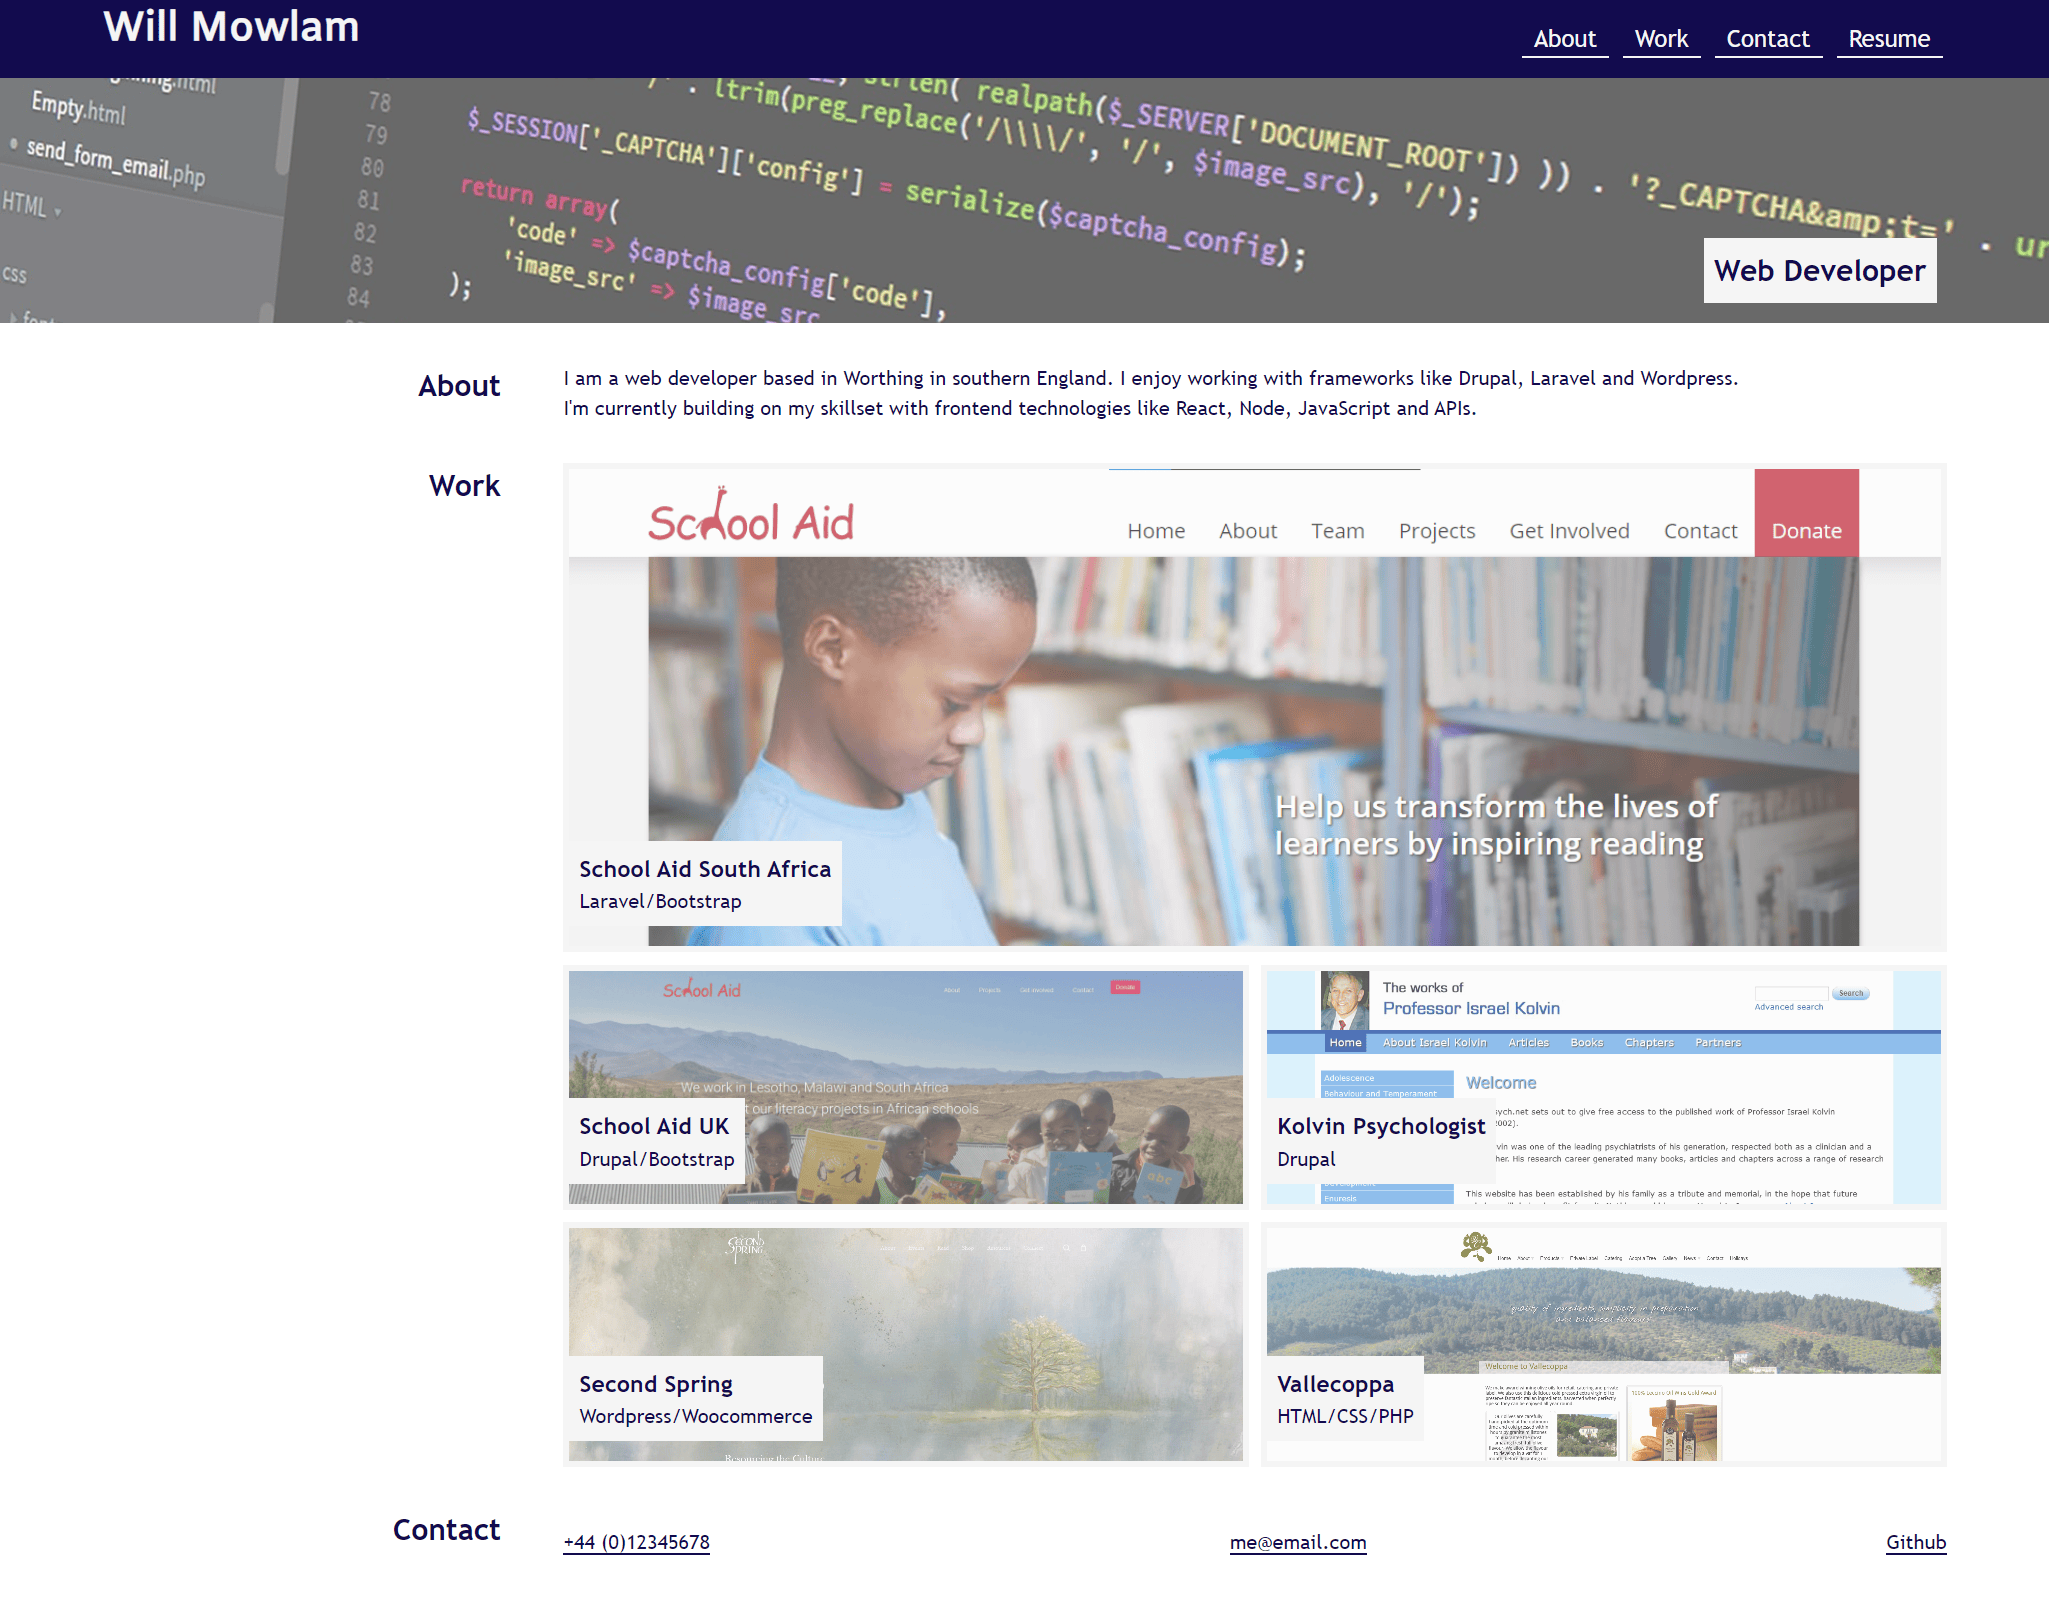
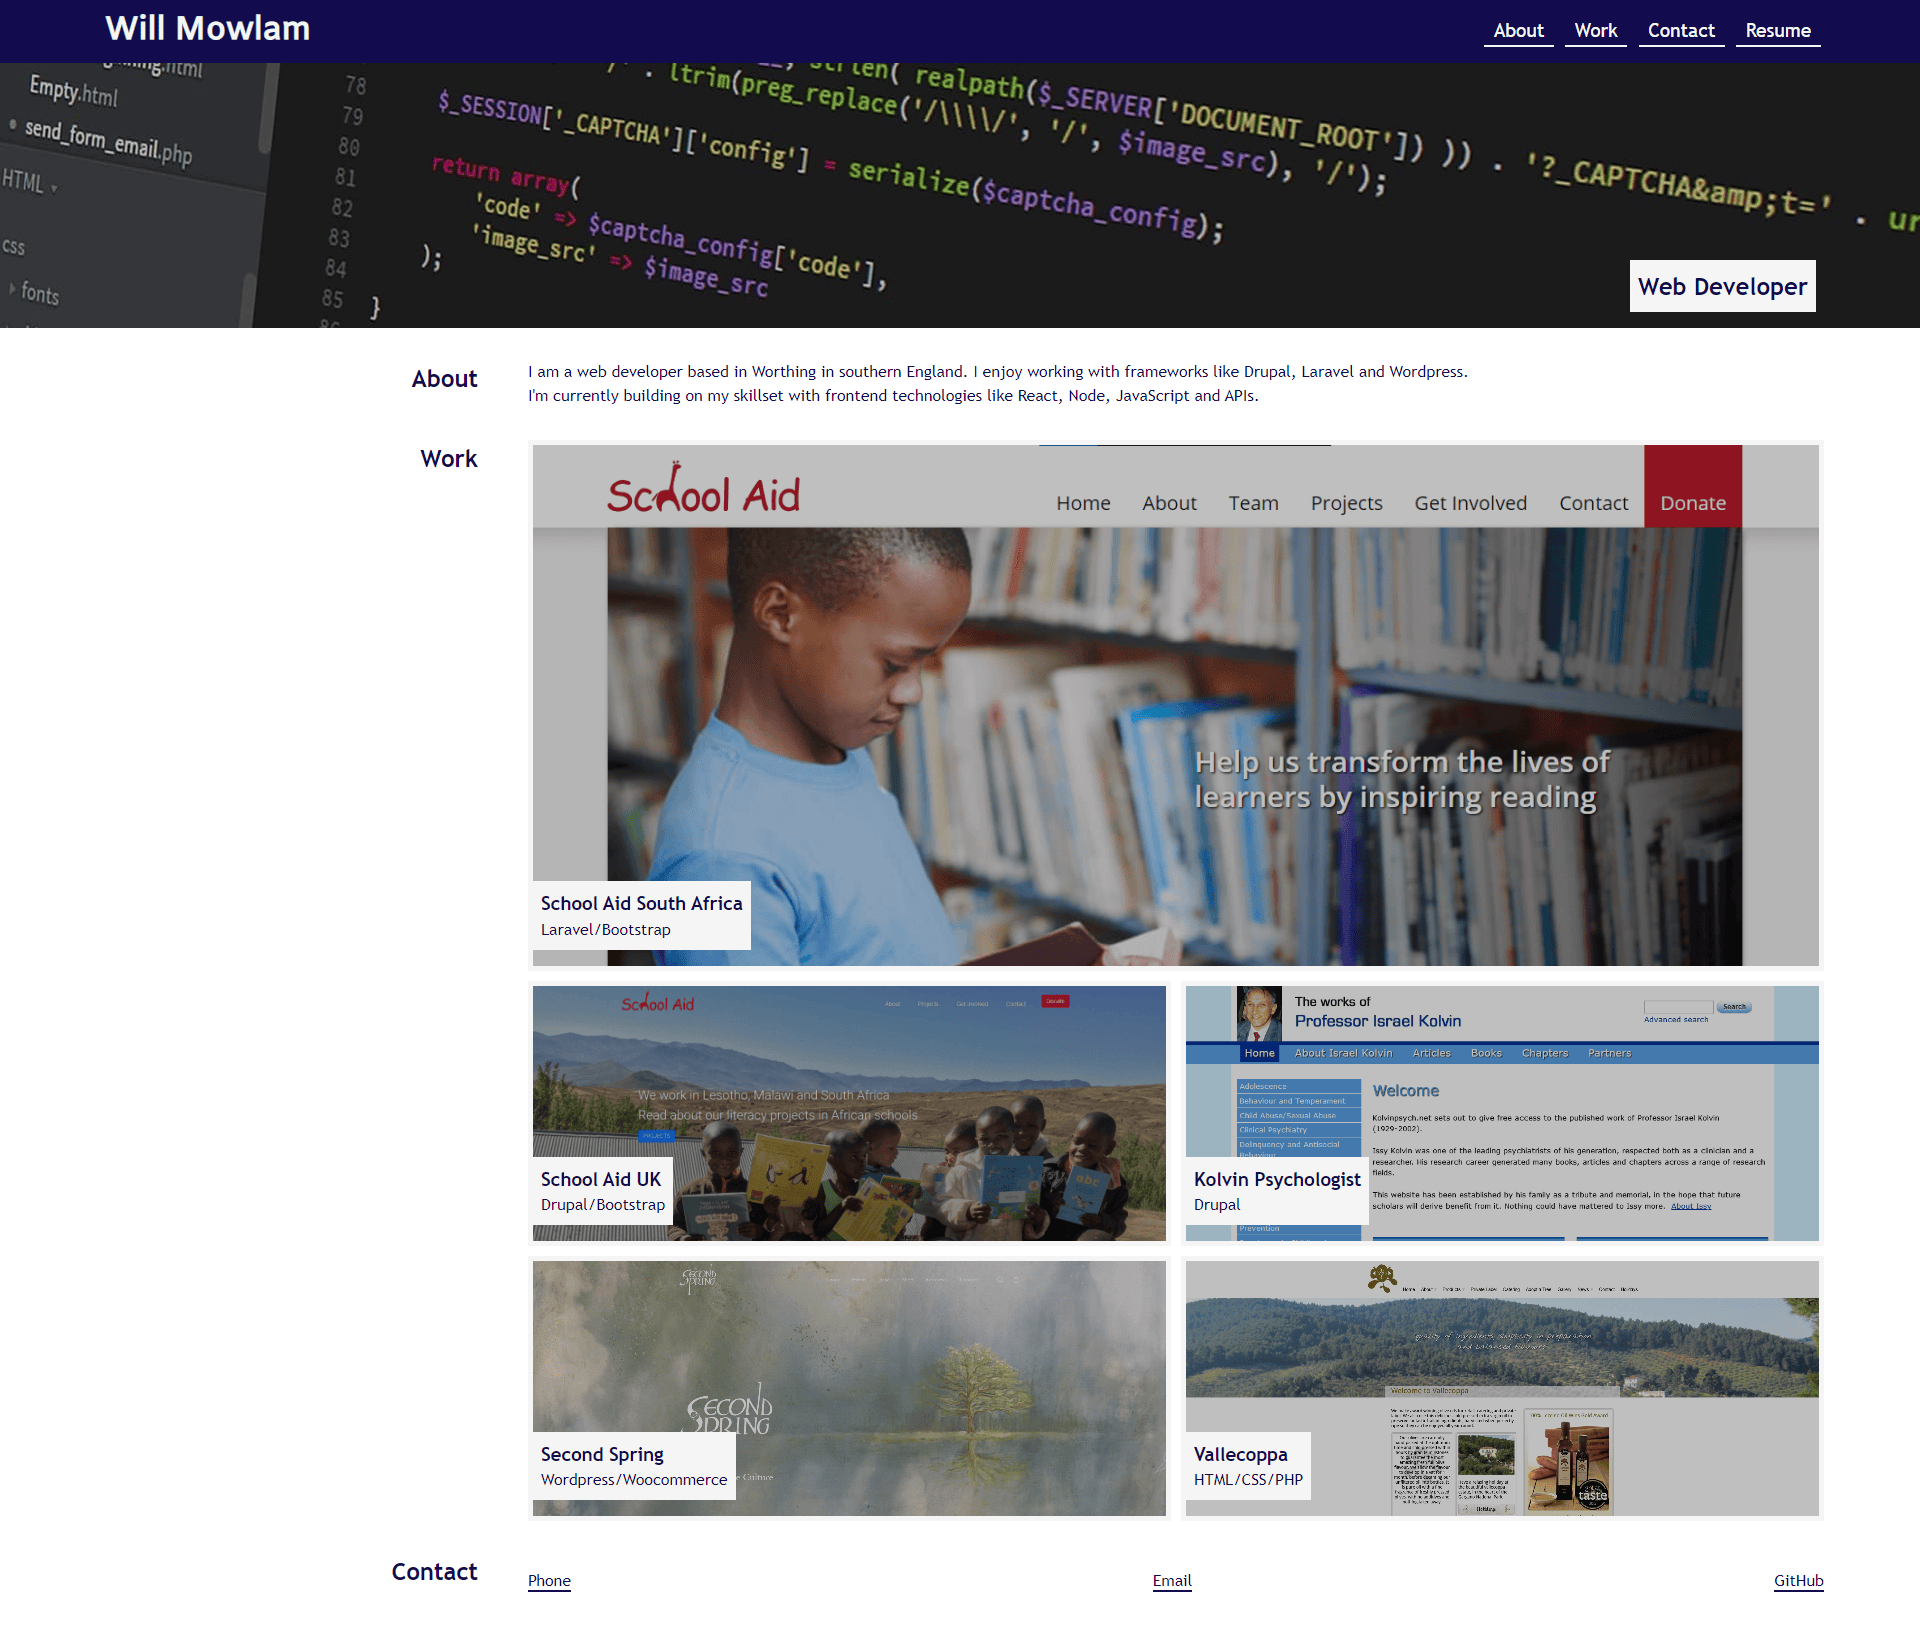
Update screenshot and email address

diff --git a/index.html b/index.html
@@ -95,7 +95,7 @@
       <h2>Contact</h2>
       <ul class="content-block">
         <li><a href="tel:+4412345678">Phone</a></li>
-        <li><a href="mailto:trim08host@icloud.com">Email</a></li>
+        <li><a href="mailto:willmowlam.510@icloud.com">Email</a></li>
         <li><a href="https://github.com/willmowlam">GitHub</a></li>
       </ul>
     </section>
